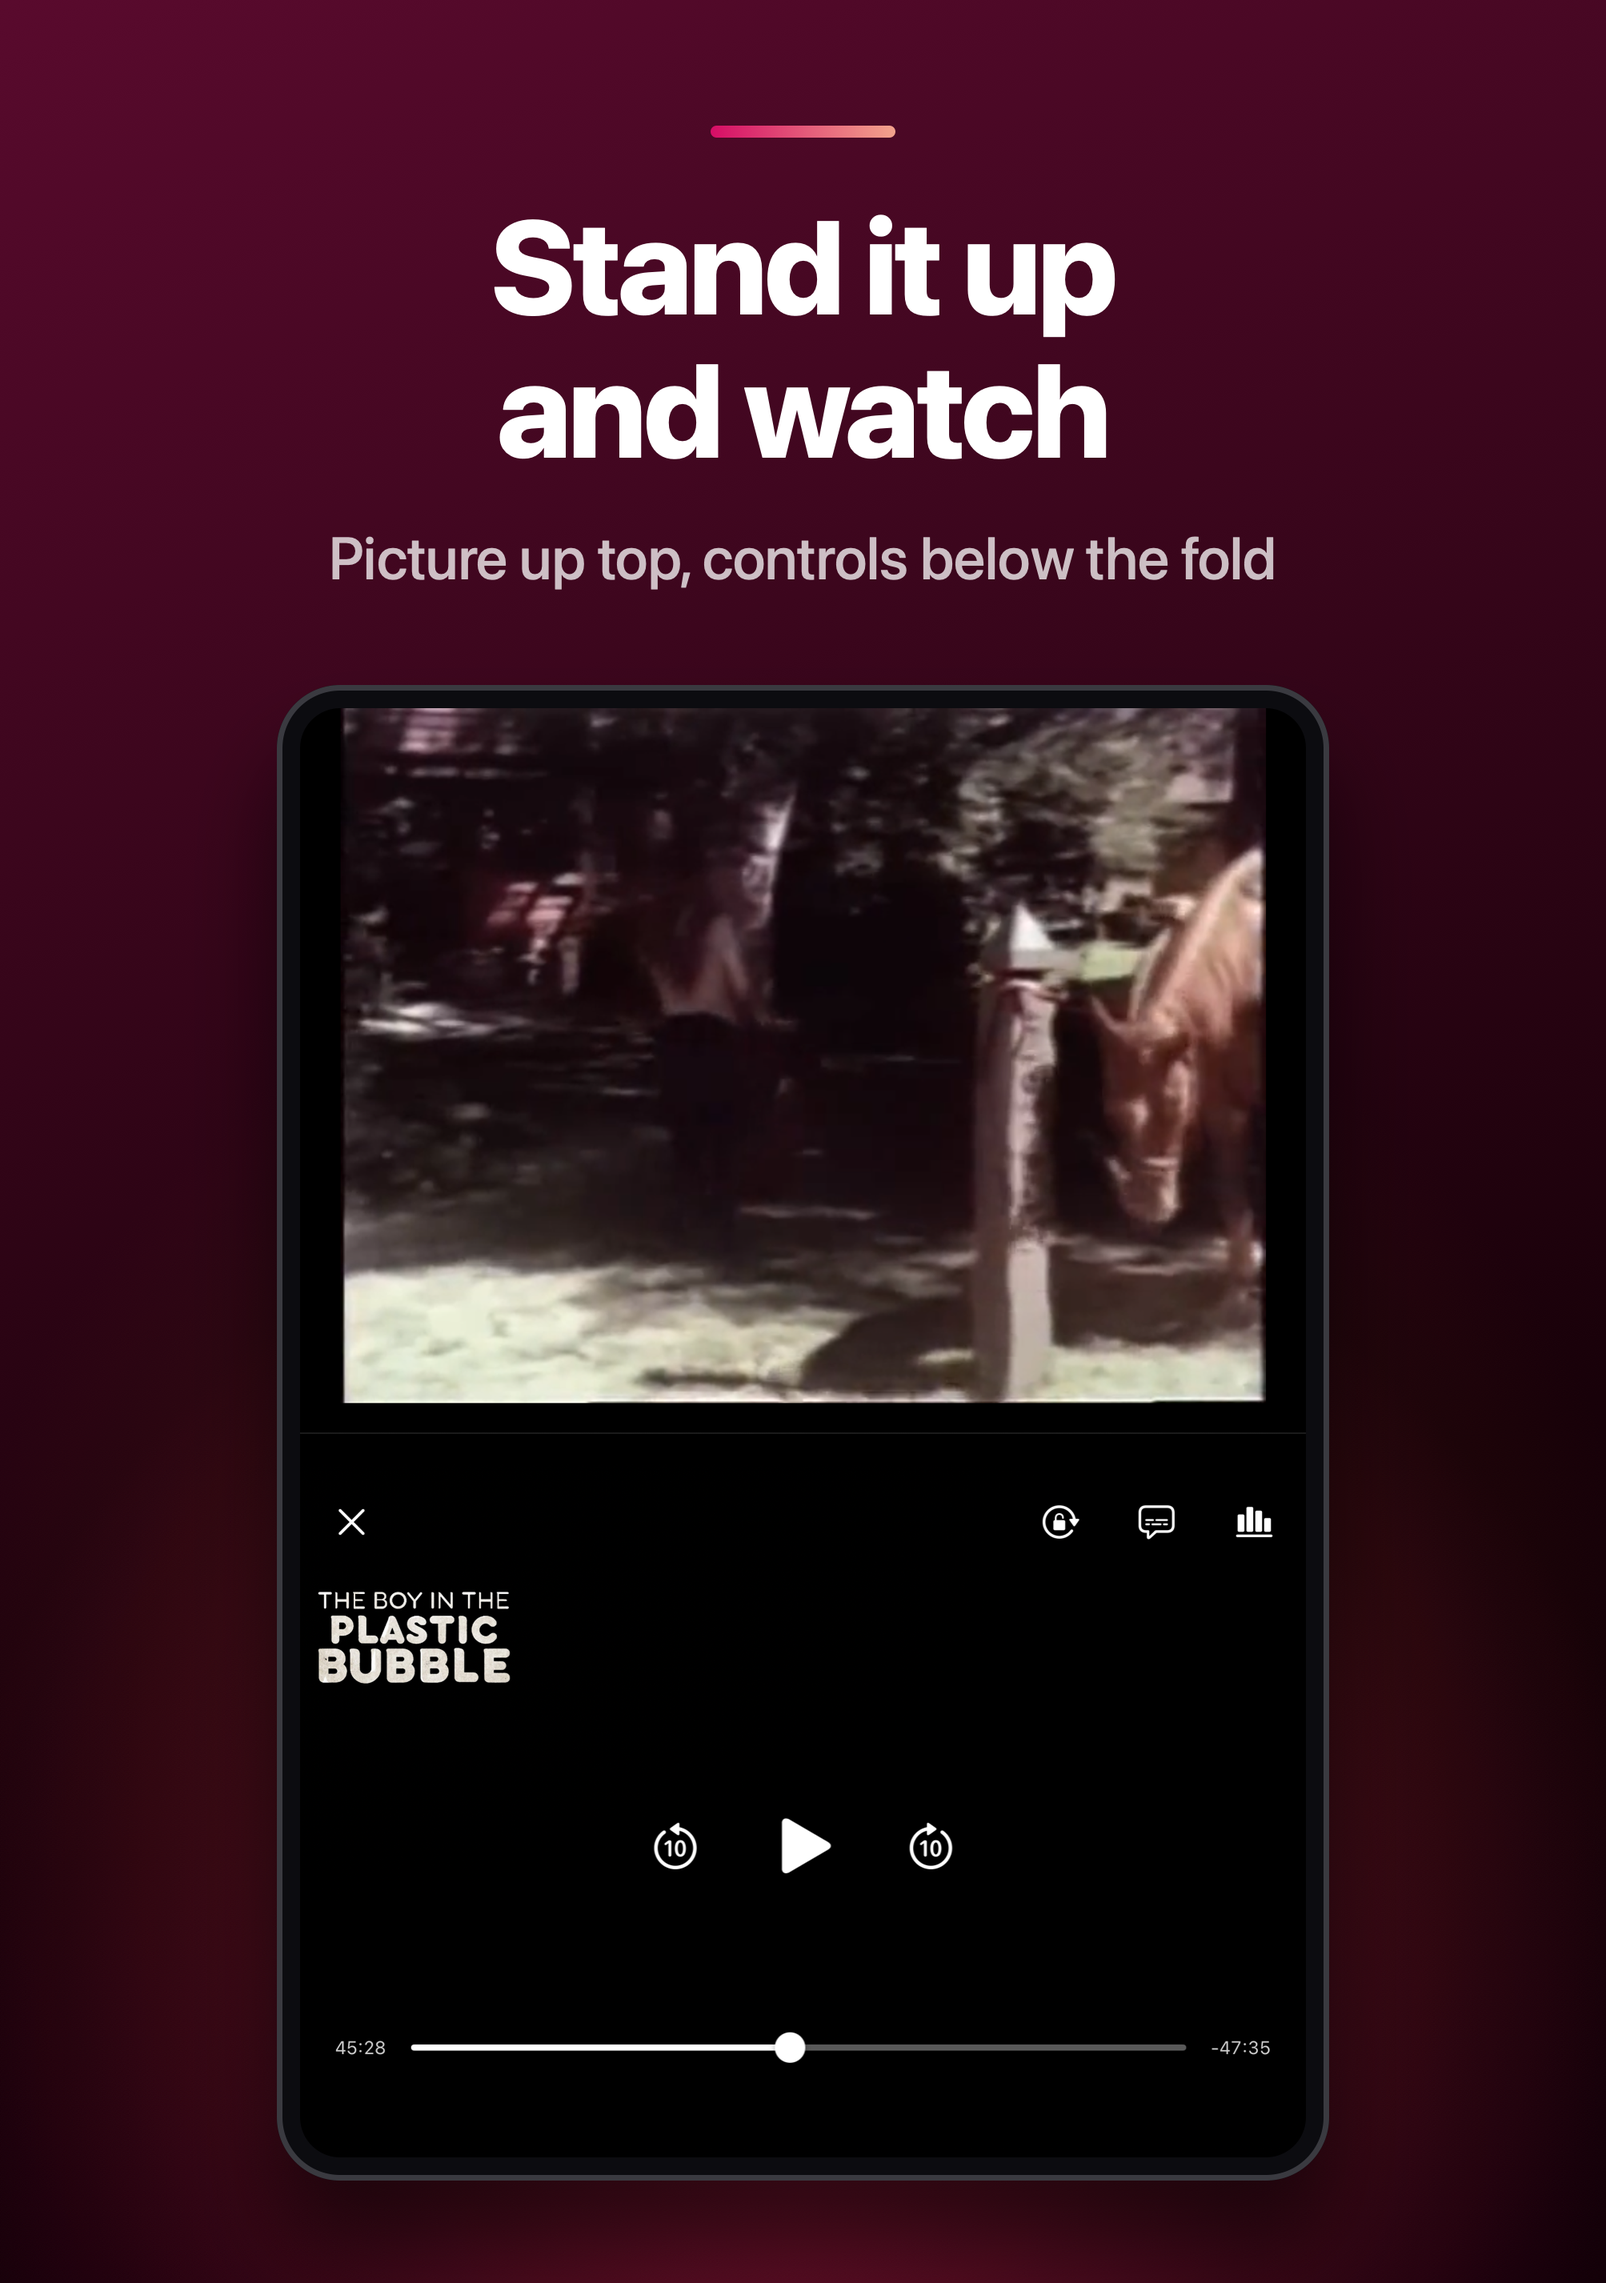
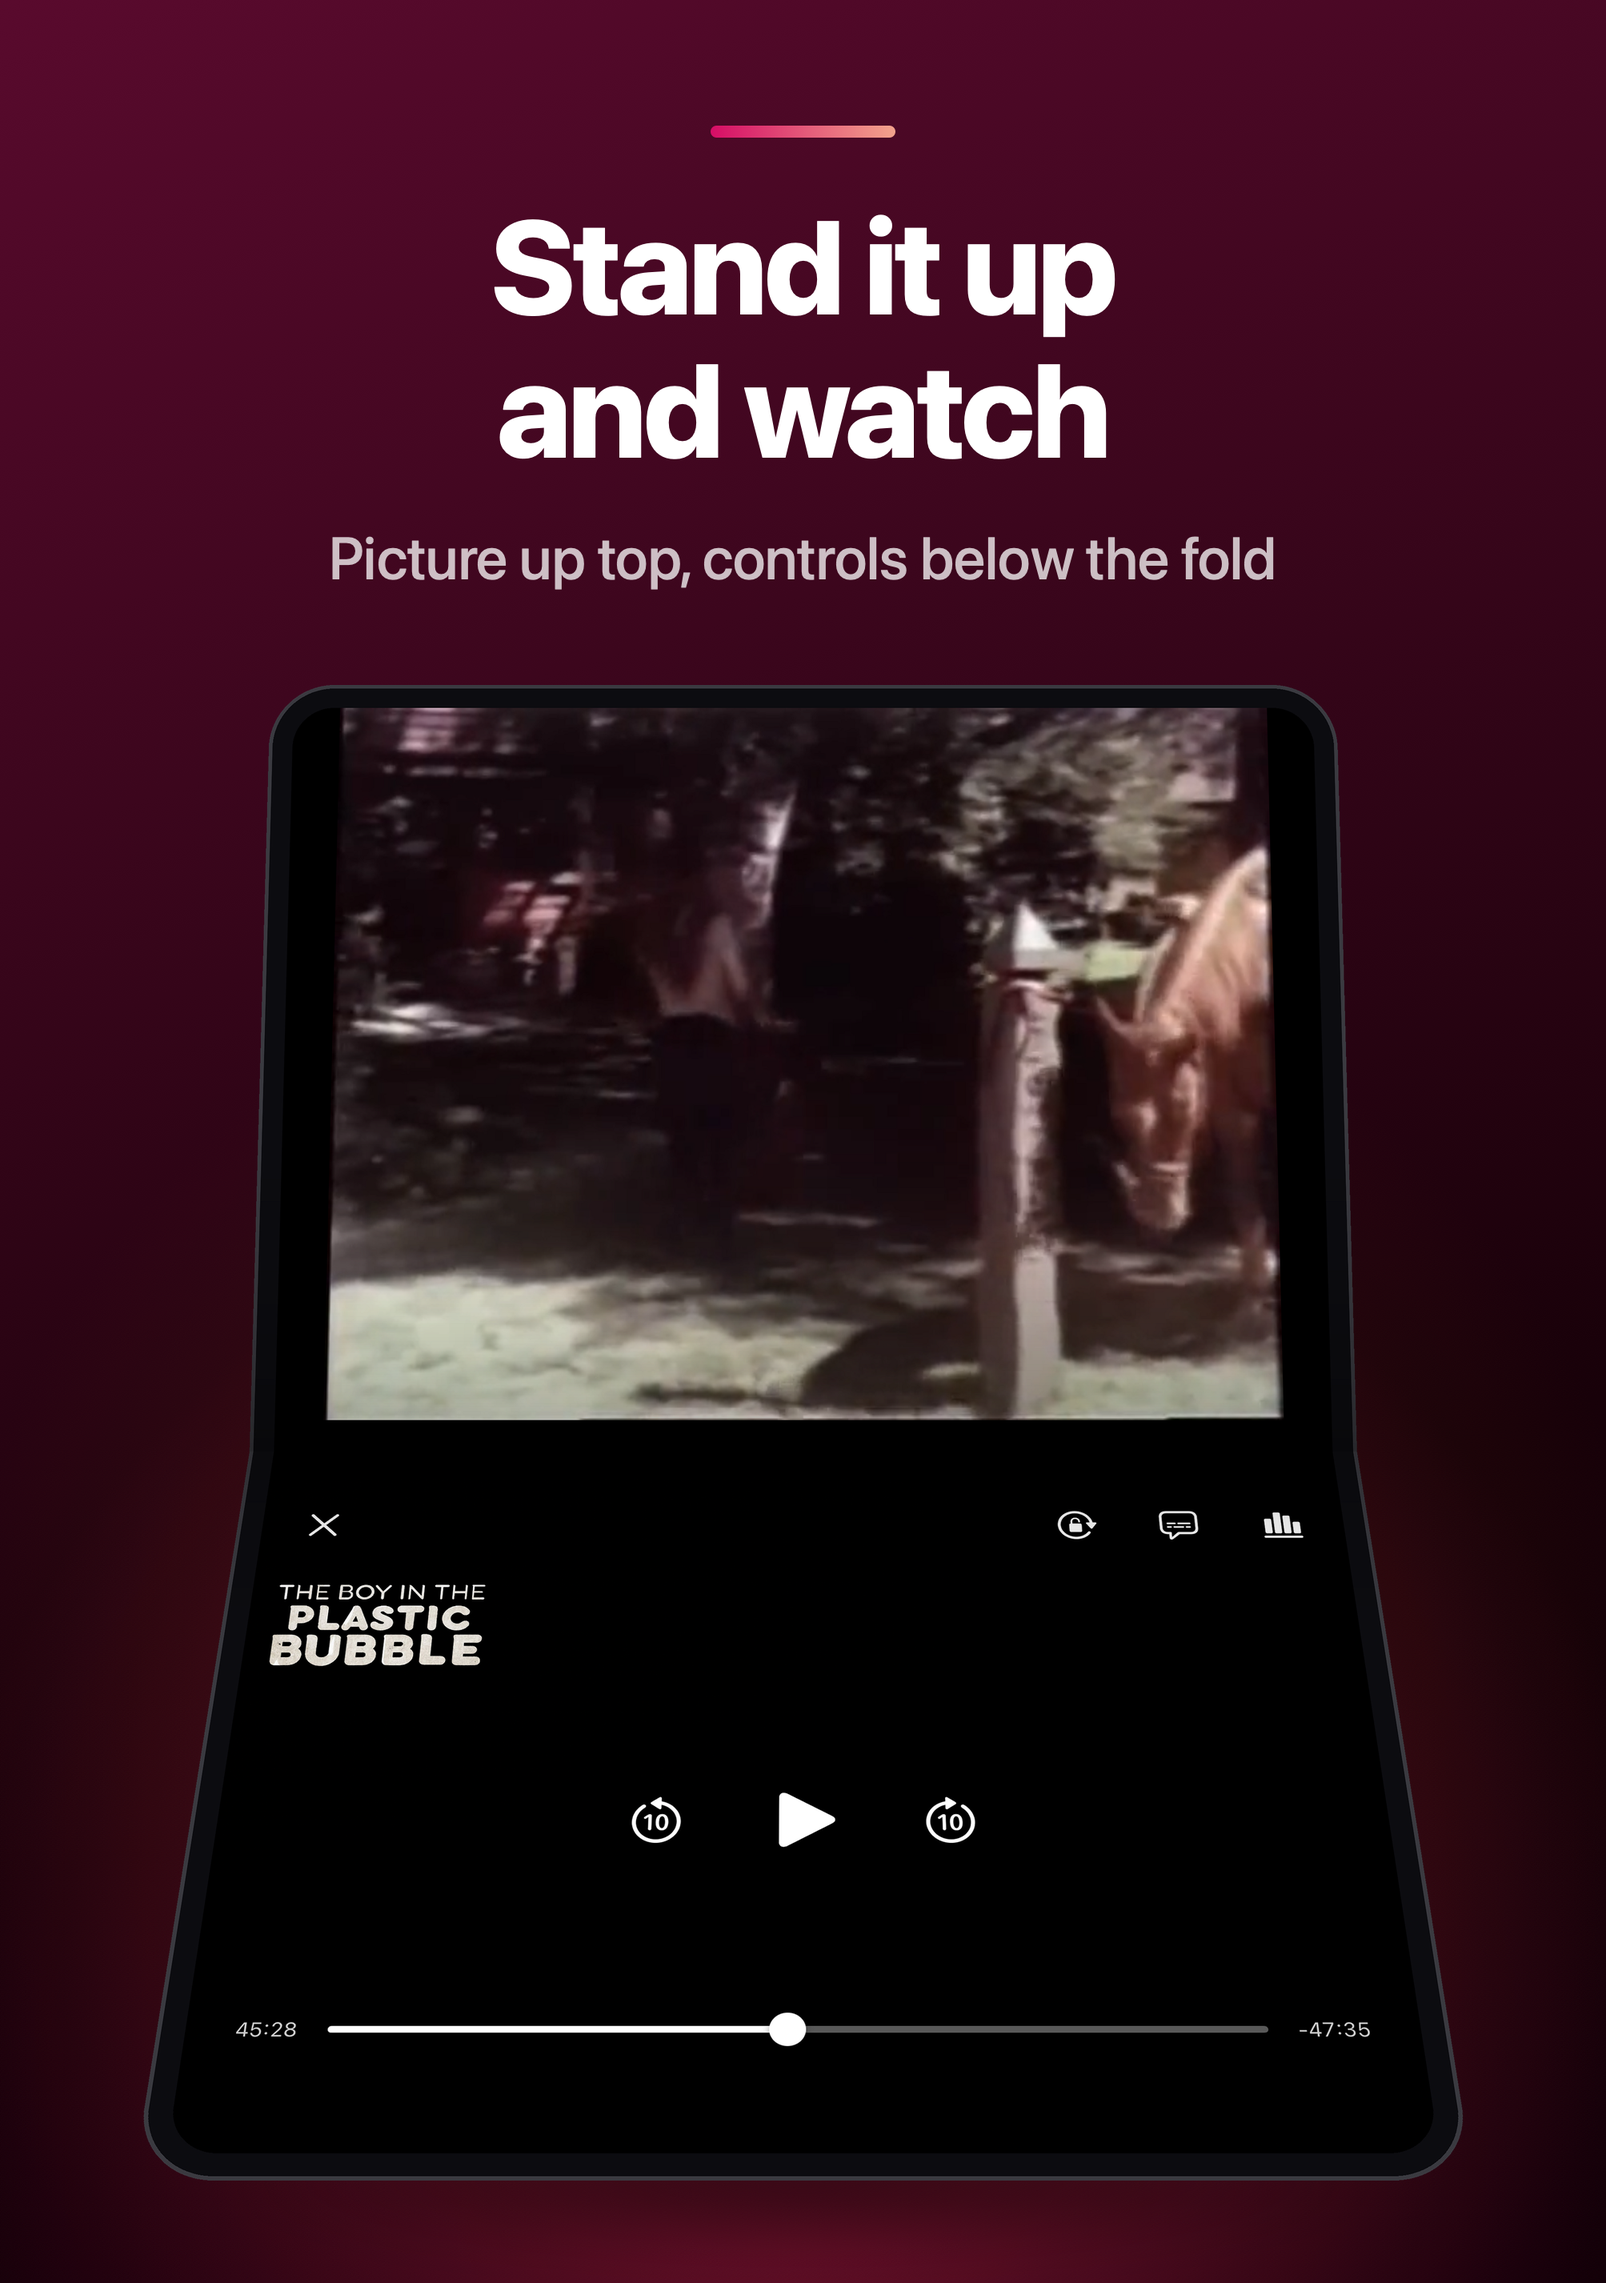
Show the Duo's book and tabletop store slides with the phone folded in 3D
Slide 4 is re-captured in book pose, so Favorites and the poster columns
sit off the fold (#410). Slides marked pose="book" or pose="tabletop" in
DUO_SLIDES now show the phone folded: the capture split at the fold and
each half turned and projected in perspective. WKWebView's snapshot
flattens CSS 3D transforms, so gen.py does the projection with Pillow.

diff --git a/Scripts/store-screenshots/gen.py b/Scripts/store-screenshots/gen.py
@@ -9,6 +9,7 @@ each file to a PNG with shot.swift to get the final store-ready image.
 See Scripts/render-store-screenshots.sh for the usual entry point — this
 script is normally invoked by that wrapper, not run directly.
 """
+import math
 import os, sys
 
 # Brand palette, straight from DionysusPlayer/Shared/BrandColors.swift.
@@ -65,9 +66,9 @@ TV_SLIDES = [
 # renders at the size of the display it shows.
 DUO_SLIDES = [
     dict(shot="01-spread.png",          held="wide",  head="Every title,<br>a two-page spread",  sub="Designed for iPhone Duo"),
-    dict(shot="02-tabletop-player.png", held="tall",  head="Stand it up<br>and watch",          sub="Picture up top, controls below the fold"),
-    dict(shot="03-tabletop-home.png",   held="tall",  head="Your library,<br>folded just right", sub="The fold falls in the gap"),
-    dict(shot="04-grid.png",            held="wide",  head="Find it in seconds",                sub="Genre, studio, decade — stacked"),
+    dict(shot="02-tabletop-player.png", held="tall",  pose="tabletop", head="Stand it up<br>and watch",          sub="Picture up top, controls below the fold"),
+    dict(shot="03-tabletop-home.png",   held="tall",  pose="tabletop", head="Your library,<br>folded just right", sub="The fold falls in the gap"),
+    dict(shot="04-grid.png",            held="wide",  pose="book", head="Find it in seconds",                sub="Genre, studio, decade — stacked"),
     dict(shot="05-settings.png",        held="wide",  head="Settings,<br>side by side",          sub="List and detail on one screen"),
     dict(shot="06-closed-home.png",     held="outer", head="Closed, it’s all<br>still here",     sub="The whole app on the outer display"),
 ]
@@ -154,10 +155,126 @@ def build_duo(idx, slide, outdir):
   {copy}
   <div class="device"><img src="./{slide["shot"]}">{crease}</div>
 </body></html>'''
+    if slide.get("pose") in ("book", "tabletop"):
+        html = html.replace(
+            f'<div class="device"><img src="./{slide["shot"]}">{crease}</div>',
+            folded_device(slide["pose"], slide["shot"], dev_w, dev_h, radius, bezel, W, H, outdir, idx))
     path = os.path.join(outdir, f"slide{idx + 1}.html")
     with open(path, "w") as f:
         f.write(html)
     return path, W, H
+
+
+# The folded poses. Book: each half turns BOOK_ANGLE toward the viewer about
+# the vertical fold. Tabletop: the top half leans back TABLETOP_BACK, the
+# bottom half tips TABLETOP_BASE toward the viewer, like a laptop's base, and
+# the eye sits a little above. Angles in degrees; the eye's distance is in
+# multiples of the phone's longer side.
+BOOK_ANGLE = 24
+TABLETOP_BACK = 10
+TABLETOP_BASE = 50
+FOLD_EYE = 2.2
+
+
+def _solve(m, v):
+    """Gaussian elimination for the small linear systems _perspective needs."""
+    n = len(v)
+    a = [row[:] + [v[i]] for i, row in enumerate(m)]
+    for c in range(n):
+        p = max(range(c, n), key=lambda r: abs(a[r][c]))
+        a[c], a[p] = a[p], a[c]
+        for r in range(n):
+            if r != c:
+                f = a[r][c] / a[c][c]
+                a[r] = [x - f * y for x, y in zip(a[r], a[c])]
+    return [a[i][n] / a[i][i] for i in range(n)]
+
+
+def _perspective(dst, src):
+    """Pillow's PERSPECTIVE coefficients mapping each dst corner to its src."""
+    m, v = [], []
+    for (x, y), (u, w) in zip(dst, src):
+        m.append([x, y, 1, 0, 0, 0, -u * x, -u * y]); v.append(u)
+        m.append([0, 0, 0, x, y, 1, -w * x, -w * y]); v.append(w)
+    return _solve(m, v)
+
+
+def folded_device(pose, shot, dev_w, dev_h, radius, bezel, W, H, outdir, idx):
+    """The open phone partly folded, in book pose (held wide, folded about
+    the vertical fold) or tabletop (held tall, standing on its bottom half),
+    the two halves seen in perspective. WKWebView's snapshot flattens CSS 3D
+    transforms to 2D, so the projection is done here with Pillow and the
+    slide shows the result as an image. Each half carries its own half of
+    the one capture, so the screen is still the app's real pixels; the
+    shading only darkens it toward the fold, as a page does in a book."""
+    from PIL import Image, ImageDraw
+    k = 2  # drawn at twice the size, then downscaled, for smooth edges
+    w, h, r, b = dev_w * k, dev_h * k, radius * k, bezel * k
+    book = pose == "book"
+    flat = Image.new("RGBA", (w, h), (0, 0, 0, 0))
+    d = ImageDraw.Draw(flat)
+    d.rounded_rectangle([0, 0, w - 1, h - 1], r, fill=(12, 12, 16, 255),
+                        outline=(58, 58, 64, 255), width=max(3, round(min(w, h) * 0.0035)))
+    screen = Image.open(os.path.join(outdir, shot)).convert("RGBA").resize((w - 2 * b, h - 2 * b), Image.LANCZOS)
+    mask = Image.new("L", screen.size, 0)
+    ImageDraw.Draw(mask).rounded_rectangle([0, 0, screen.width - 1, screen.height - 1], r - b, fill=255)
+    flat.paste(screen, (b, b), mask)
+    # Shading: each half darkens toward the fold, the first more than the second.
+    length = w if book else h
+    half = length // 2
+    shade = Image.new("RGBA", (w, h), (0, 0, 0, 0))
+    sd = ImageDraw.Draw(shade)
+    for i in range(length):
+        t = abs(i - half) / half  # 0 at the fold, 1 at the outer edge
+        a = round(80 * max(0.0, 1 - t / 0.5) ** 2) if i < half else round(50 * max(0.0, 1 - t / 0.4) ** 2)
+        sd.line([(i, 0), (i, h)] if book else [(0, i), (w, i)], fill=(0, 0, 0, a))
+    flat = Image.alpha_composite(flat, Image.composite(shade, Image.new("RGBA", (w, h)), flat.getchannel("A")))
+
+    # Each half in 3D, the fold through the origin, z toward the eye.
+    eye = FOLD_EYE * max(w, h)
+    eye_y = 0 if book else -0.35 * h  # tabletop is seen from a little above
+    def proj(x, y, z):
+        s = eye / (eye - z)
+        return x * s, eye_y + (y - eye_y) * s
+    pages = []
+    if book:
+        th = math.radians(BOOK_ANGLE)
+        for side in (-1, 1):
+            ox, oz = side * half * math.cos(th), half * math.sin(th)
+            quad = [proj(0, -h / 2, 0), proj(ox, -h / 2, oz), proj(ox, h / 2, oz), proj(0, h / 2, 0)]
+            src = ([(half, 0), (0, 0), (0, h), (half, h)] if side < 0
+                   else [(0, 0), (half, 0), (half, h), (0, h)])
+            pages.append((quad, src, flat.crop((0, 0, half, h) if side < 0 else (half, 0, w, h))))
+    else:
+        back, base = math.radians(TABLETOP_BACK), math.radians(TABLETOP_BASE)
+        ty, tz = -half * math.cos(back), -half * math.sin(back)
+        by, bz = half * math.cos(base), half * math.sin(base)
+        top = [proj(-w / 2, ty, tz), proj(w / 2, ty, tz), proj(w / 2, 0, 0), proj(-w / 2, 0, 0)]
+        bottom = [proj(-w / 2, 0, 0), proj(w / 2, 0, 0), proj(w / 2, by, bz), proj(-w / 2, by, bz)]
+        corners = [(0, 0), (w, 0), (w, half), (0, half)]
+        pages.append((top, corners, flat.crop((0, 0, w, half))))
+        pages.append((bottom, corners, flat.crop((0, half, w, h))))
+    xs = [x for q, _, _ in pages for x, _ in q]
+    ys = [y for q, _, _ in pages for _, y in q]
+    minx, miny = min(xs), min(ys)
+    cw, ch = math.ceil(max(xs) - minx), math.ceil(max(ys) - miny)
+    out = Image.new("RGBA", (cw, ch), (0, 0, 0, 0))
+    for quad, src, crop in pages:
+        dst = [(x - minx, y - miny) for x, y in quad]
+        warped = crop.transform((cw, ch), Image.PERSPECTIVE, _perspective(dst, src), Image.BICUBIC)
+        out = Image.alpha_composite(out, warped)
+    # Held wide, as wide as the flat phone. Held tall, no taller than it,
+    # and as wide as the canvas allows: tabletop is shorter than the flat
+    # phone, and its widening base is what limits it.
+    scale = dev_w / cw if book else min(dev_h / ch, W * 0.86 / cw)
+    out = out.resize((round(cw * scale), round(ch * scale)), Image.LANCZOS)
+    name = f"slide{idx + 1}-{pose}.png"
+    out.save(os.path.join(outdir, name))
+    return (f'<div style="position:relative;z-index:1;width:{out.width}px;height:{out.height}px">'
+            f'<div style="position:absolute;left:6%;right:6%;bottom:-{round(dev_h*0.05)}px;height:{round(dev_h*0.1)}px;'
+            f'border-radius:50%;background:radial-gradient(ellipse at center, rgba(0,0,0,.6), transparent 70%);'
+            f'filter:blur({round(dev_h*0.02)}px)"></div>'
+            f'<img src="./{name}" style="position:relative;width:100%;height:100%;display:block"></div>')
 
 
 def build_tv(idx, slide, W, H, outdir):

diff --git a/CLAUDE.md b/CLAUDE.md
@@ -676,6 +676,13 @@ capture-then-render workflow. What the scripts don't say:
 - **Go easy on the demo server's downloads**: ten parallel transcodes across
   two Simulators coincided with it answering 503 (2026-10-31). Download the
   short Caminandes films, one Simulator at a time.
+- **Book and tabletop slides show the phone folded in 3D** (`pose=` in
+  `DUO_SLIDES`; Benjamin, 2026-11-01), the capture split at the fold and
+  each half turned (`BOOK_ANGLE`, `TABLETOP_BACK`/`TABLETOP_BASE`).
+  `shot.swift`'s WKWebView snapshot flattens CSS 3D transforms to 2D, so
+  `gen.py` projects them itself with Pillow and places the result as an
+  image; don't move it back to CSS. Capture book slides in book pose: the
+  grid's fold split only shows there, not open flat.
 - **The Apple TV set** (`appstore-appletv`, `gen.py`'s `TV_SLIDES`, no device
   frame) is captured with `xcrun simctl io <udid> screenshot`, which works on
   tvOS with no rotation or status bar to handle; the 4K Simulator saves

diff --git a/README.md b/README.md
@@ -533,7 +533,9 @@ Producing a set is two steps:
    whose screenshot is the whole screen) over a brand-gradient background
    with a headline/subcopy pair, then renders each slide to an opaque PNG
    at the exact size App Store Connect expects (the Duo's open phone gets a
-   faint crease where the fold is). Each set renders only if its raw folder
+   faint crease where the fold is; a slide marked `pose="book"` or
+   `pose="tabletop"` in `DUO_SLIDES` shows the phone folded in 3D instead,
+   projected with Pillow, so `pip3 install Pillow` first). Each set renders only if its raw folder
    is there, so one set can be redone on its own; the closing report lists
    each file's size and whether it has an alpha channel.
 
